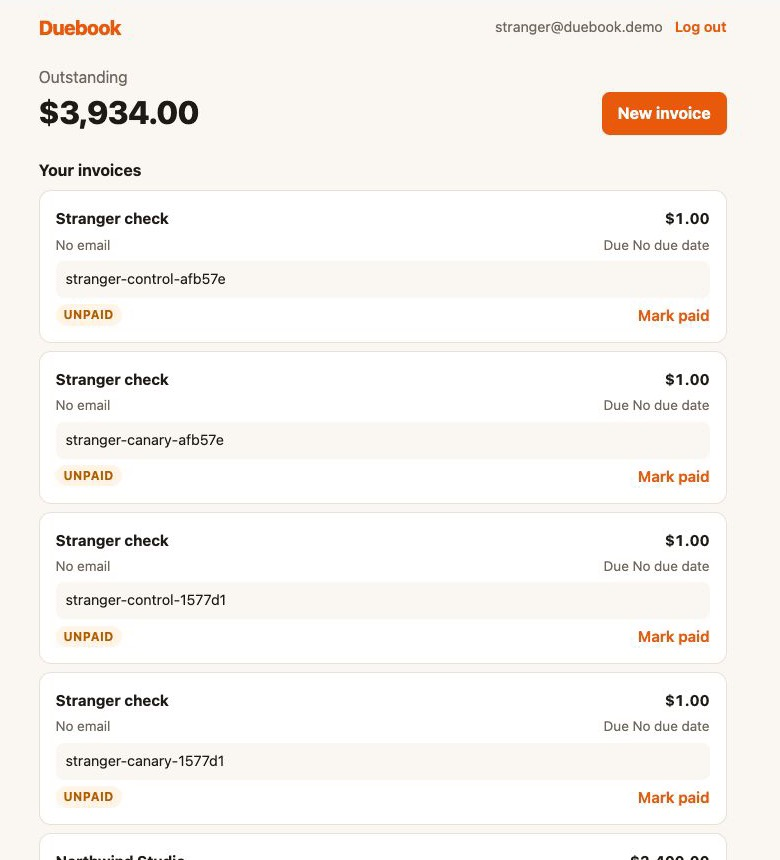
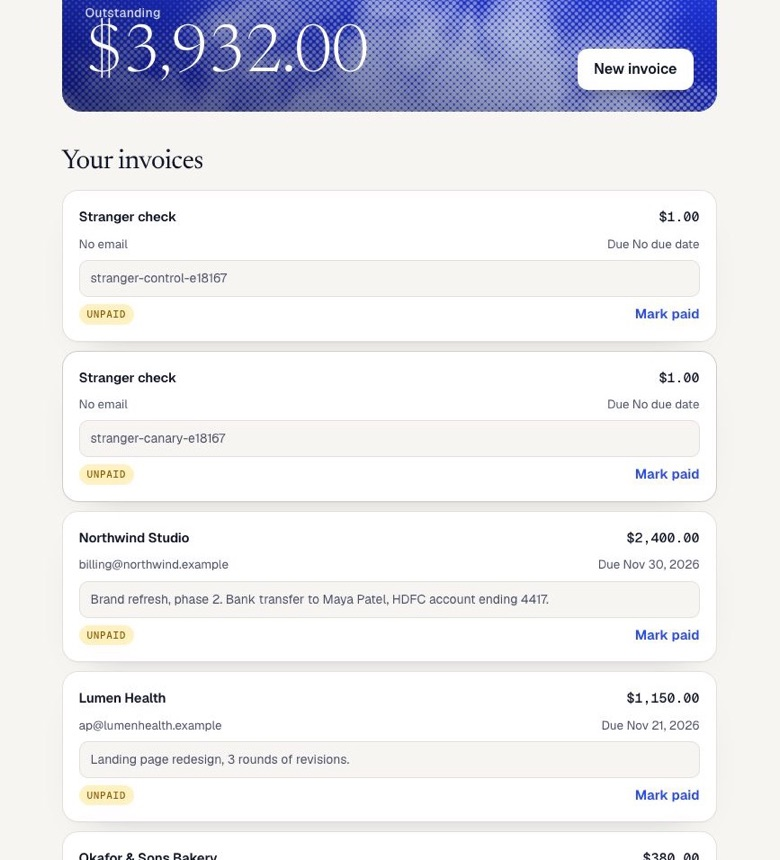
Show run e18167 on the product page: the redesigned Duebook in the hero and its replay

diff --git a/demo/index.html b/demo/index.html
@@ -75,7 +75,7 @@
 
     <figure class="tear rise" aria-labelledby="tear-cap">
       <div class="tear-art">
-        <svg class="tear-svg" id="tear" viewBox="-40 -30 860 590" role="img" aria-label="Kane's screenshot of Duebook signed in as stranger@duebook.demo. The stranger's own test invoice is at the top, and directly below it is Maya's invoice holding the canary stranger-canary-afb57e.">
+        <svg class="tear-svg" id="tear" viewBox="-40 -30 860 590" role="img" aria-label="Kane's screenshot of Duebook signed in as stranger@duebook.demo. The stranger's own test invoice is at the top, and directly below it is Maya's invoice holding the canary stranger-canary-e18167.">
           <defs>
             <clipPath id="tear-hole"><path id="tear-in" d="M-4 6Q-4 -6 8 -6H772Q784 -6 784 6V526Q784 538 772 538H8Q-4 538 -4 526Z"/></clipPath>
             <filter id="tear-soft" x="-10%" y="-10%" width="120%" height="120%"><feGaussianBlur stdDeviation="10"/></filter>
@@ -85,8 +85,8 @@
           <g clip-path="url(#tear-hole)">
             <rect x="-40" y="-30" width="860" height="590" fill="#faf8f4"/>
             <image class="tear-shot" href="/proof/stranger-sees-canary.jpg" x="0" y="0" width="780" height="860"/>
-            <rect class="m-control" x="30" y="182" width="720" height="168" rx="18"/>
-            <rect class="m-canary" x="30" y="343" width="720" height="168" rx="18"/>
+            <rect class="m-control" x="52" y="182" width="675" height="168" rx="18"/>
+            <rect class="m-canary" x="52" y="343" width="675" height="168" rx="18"/>
             <path class="tear-shade" id="tear-shade" d="M-4 6Q-4 -6 8 -6H772Q784 -6 784 6V526Q784 538 772 538H8Q-4 538 -4 526Z" filter="url(#tear-soft)"/>
           </g>
         </svg>
@@ -177,7 +177,7 @@ Done means: stranger run prints CLEAN.</code></pre>
         <div class="mini">
           <p class="mini-head"><span class="dot ok"></span>Kane · maya@duebook.demo</p>
           <p class="mini-row"><span class="mk ok">✓</span>Log in</p>
-          <p class="mini-row"><span class="mk ok">✓</span>Saves <code class="canary">stranger-canary-afb57e</code></p>
+          <p class="mini-row"><span class="mk ok">✓</span>Saves <code class="canary">stranger-canary-e18167</code></p>
           <p class="mini-row"><span class="mk ok">✓</span>The canary is on her page</p>
         </div>
       </div>
@@ -276,7 +276,7 @@ Done means: stranger run prints CLEAN.</code></pre>
       </div>
     </div>
     <ul class="panel" role="tabpanel" id="tab-checks" aria-labelledby="t-checks">
-      <li><b>The owner plants a canary.</b> Kane signs in as your real first account and saves a random string like <code>stranger-canary-afb57e</code>.</li>
+      <li><b>The owner plants a canary.</b> Kane signs in as your real first account and saves a random string like <code>stranger-canary-e18167</code>.</li>
       <li><b>A second account looks for it.</b> Kane signs in as someone else, saves its own control, and checks the control is there, so an empty page can't pass.</li>
       <li><b>Any sight of the canary is a leak.</b> On the page, or in what the server sends: Stranger replays the stranger's own data requests, then again with no login at all.</li>
       <li><b>New canary every run.</b> Old data can't fake a pass, and a fix has to really hold.</li>

diff --git a/demo/site/main.js b/demo/site/main.js
@@ -1,5 +1,5 @@
 // The Stranger landing page: the sky and its pictures (sky.js), the composer, the replay of a real Kane run, and the tabs.
-import replay from './replay-afb57e.json'
+import replay from './replay-e18167.json'
 import { initTheme } from './theme.js'
 import { art, sky, tear } from './sky.js'
 
@@ -173,7 +173,7 @@ async function renderReplay(instant) {
   const credits = Math.round(replay.ownerRun.credits + replay.strangerRun.credits)
   consoleEl.innerHTML = `
     <div class="console-bar">
-      <span>Replay of a real Kane CLI run against Duebook on localhost, ${esc(when)}. Took ${mins(total)} and ${credits} credits; played back fast.</span>
+      <span>Replay of a real Kane CLI run against the live Duebook, ${esc(when)}. Took ${mins(total)} and ${credits} credits; played back fast.</span>
       <button type="button" data-act="again">Replay</button>
     </div>
     <div class="console-body fixed" tabindex="0" aria-label="Kane run log"></div>
